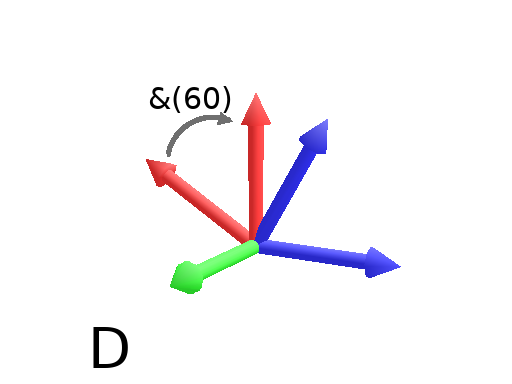
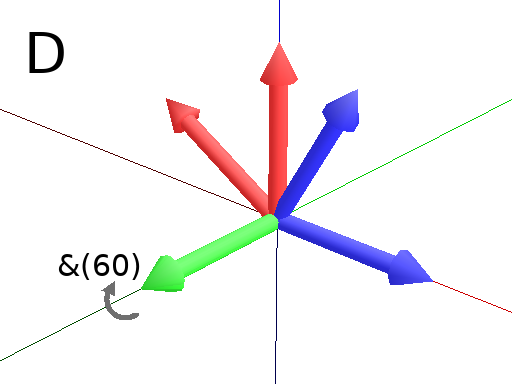
All Euler Angles section rewrited and new images for rotation part

diff --git a/doc/user/turtle.rst b/doc/user/turtle.rst
@@ -347,20 +347,32 @@ In (Fig. B), the H axis point now to (0,1,0) and the U axis point now to (1,0,1)
 |    :scale: 60%                      |    :scale: 60%                      |
 +-------------------------------------+-------------------------------------+
 
-Finally, the Turtle's orientation can be set using Euler angles with the primitive EulerAngles. Three angles in degrees are needed (default = 180,90,0).
+Finally, the Turtle’s orientation can at any moment be set using Euler angles with the primitive **EulerAngles**. The Euler angles are defined with respect to the other global reference frame (screen coordinates). By default, the initial Turtle’s frame is defined by the Euler angles (180,90,0) with respect to the original frame.
 
 .. code-block:: python
 
-	#Equivalent to Frame(2)&(30)Frame(2)
-	Axiom: Frame(2) EulerAngles(180,60,0) Frame(2) 	(#Fig. A)
+	Axiom: Frame(2) EulerAngles(0,0,0) Frame(2)  # Turtle’s frame corresponds to the global reference frame. (Fig. A)
 
-	#Equivalent to Frame(2)\(90)&(30)Frame(2)
-	Axiom: Frame(2) EulerAngles(90,60,0) Frame(2) 	(#Fig. B)
+	Axiom: Frame(2) EulerAngles(180,0,0) Frame(2)  #180° rotation arround Z axis. (Fig. B)
 
-+---------------------------------+----------------------------------+
-| .. image:: ../_images/euler.png | .. image:: ../_images/euler2.png |
-|   :scale: 60%                   |    :scale: 60%                   |
-+---------------------------------+----------------------------------+
+	Axiom: Frame(2) EulerAngles(180,90,0) Frame(2)  #The 90° rotation arround the new Y axis. (Fig. C)
+	#There is the initial Turtle's frame
+
++----------------------------------+----------------------------------+----------------------------------+
+| .. image:: ../_images/euler.png  | .. image:: ../_images/euler2.png | .. image:: ../_images/euler3.png |
+|   :scale: 40%                    |    :scale: 40%                   |    :scale: 40%                   |
++----------------------------------+----------------------------------+----------------------------------+
+
+.. code-block:: python
+
+	#A succession of 3 rotations : First 30° arround Z axis (Fig. D), then 90° arround the new Y axis (Fig. E)
+	#and finally 60° arround the new X axis. (Fig. F)
+	Axiom: Frame(2) EulerAngles(30,90,60) Frame(2)  
+
++-----------------------------------+----------------------------------+----------------------------------+
+| .. image:: ../_images/euler4.png  | .. image:: ../_images/euler5.png | .. image:: ../_images/euler6.png |
+|   :scale: 40%                     |    :scale: 40%                   |    :scale: 40%                   |
++-----------------------------------+----------------------------------+----------------------------------+
 
 Rescaling the Turtle
 ====================
@@ -503,7 +515,7 @@ Download the example : :download:`branching.lpy <../_downloads/branching.lpy>`
 |    :scale: 40%                       |    :scale: 40%                       |
 +--------------------------------------+--------------------------------------+
 
-The same branching system can be augmented with other modules (@**O** for sphere, ...) (Fig. D)
+The same branching system can be augmented with other modules (**Frame**, **@O**, **@B**,...) (Fig. D)
 
 .. code-block:: python
 
@@ -725,7 +737,7 @@ Download the example : :download:`resolution.lpy <../_downloads/resolution.lpy>`
 
 +---------------------------------------+---------------------------------------+
 | .. image:: ../_images/resolution1.png | .. image:: ../_images/resolution2.png |
-|    :scale: 70%                        |    :scale: 70%                        |
+|    :scale: 60%                        |    :scale: 60%                        |
 +---------------------------------------+---------------------------------------+
 
 Screen Projection
